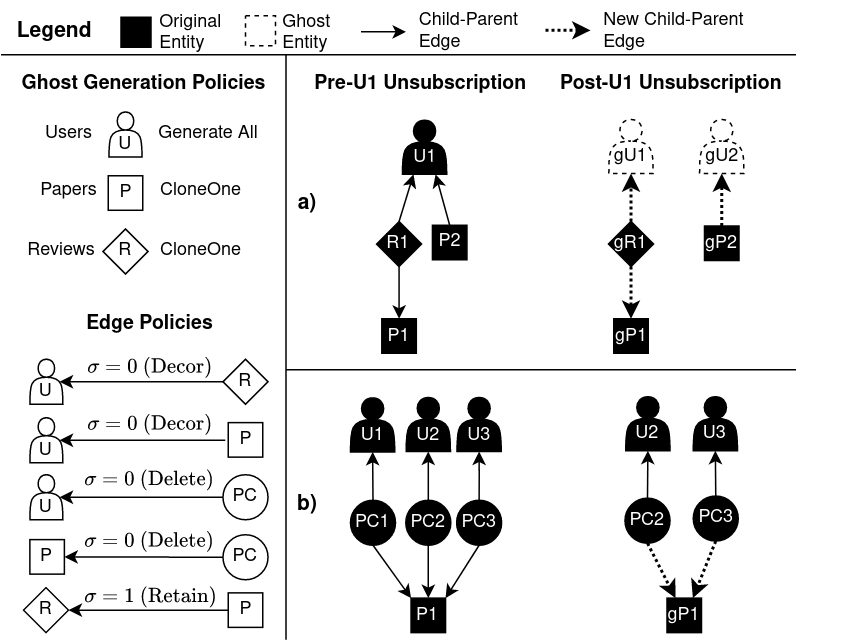
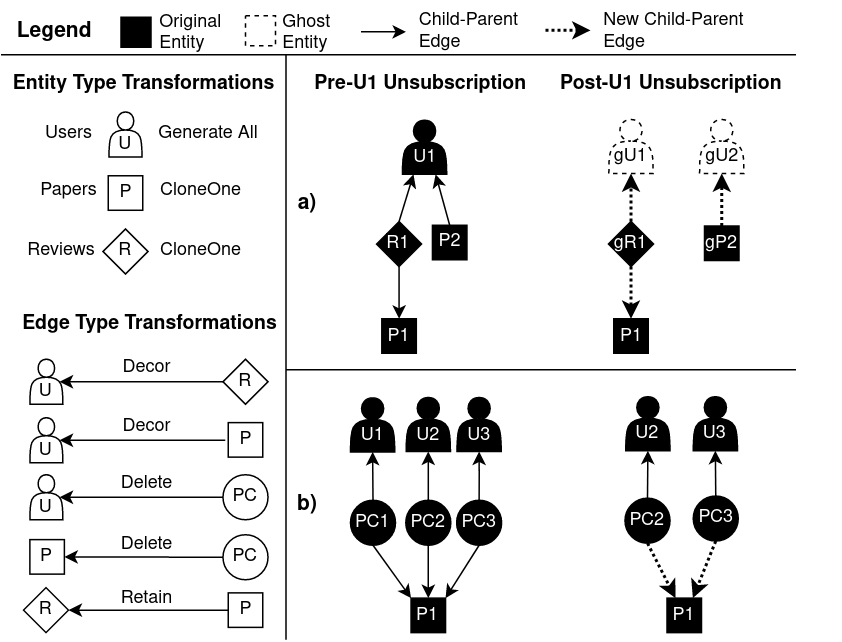
make figure match new design

diff --git a/hotos21/eval.tex b/hotos21/eval.tex
@@ -6,7 +6,10 @@
     \centering
     \includegraphics[width=.5\textwidth]{img/decor_hotcrp}
 
-    \caption{Relevant pre- and post-unsubscription state of a simplified variant of the HotCRP schema. \\ 
+    \caption{Pre- and post-unsubscription state of a simplified HotCRP schema. For clarity,
+    we show only relevant parts of the entity graph, use entity-granularity ghosting
+    transformations rather than per-attribute ones, and assume the same edge transformation in both
+    the parent-child and child-parent directions.\\
     \textbf{(a)} \sys decorrelates user-to-review and user-to-paper edges, and retains
     review-paper edges. \\%Ghost users are randomly generated. Reviews and papers are cloned once. \\
     \textbf{(b)} \sys deletes sensitive user-to-conflict edges and conflict-to-paper edges. One ghost
@@ -104,8 +107,6 @@ paper for their reviews, and (subscribed) authors see the correct reviews for th
 
 We also choose entity transformations to specify how \sys generates ghost entities 
 %by determining which entity attributes reveal identifying information (and should be generated); which attributes should be cloned to retain information necessary to the application; and how to generate attribute values in ways that satisfy HotCRP semantics. 
-For clarify, Figure~\ref{fig:hotcrp} shows simplified, entity-granularity ghosting
-transformations rather than per-attribute ones.
 We generate all of a ghost users' attributes with default values, in particular setting \texttt{disabled=true} to ensure ghosts never review papers. We clone all paper and review attributes once, retaining paper and review information without creating duplicates. 
 %and clones paper conflicts because no conflict
 %value attributes are identifying.
